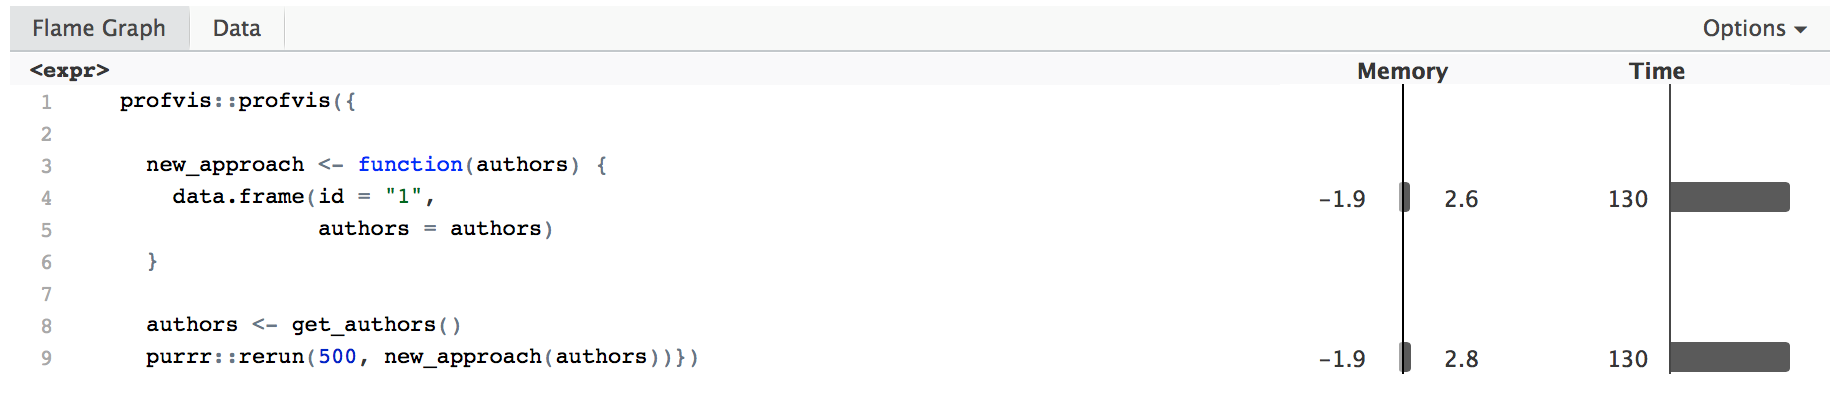
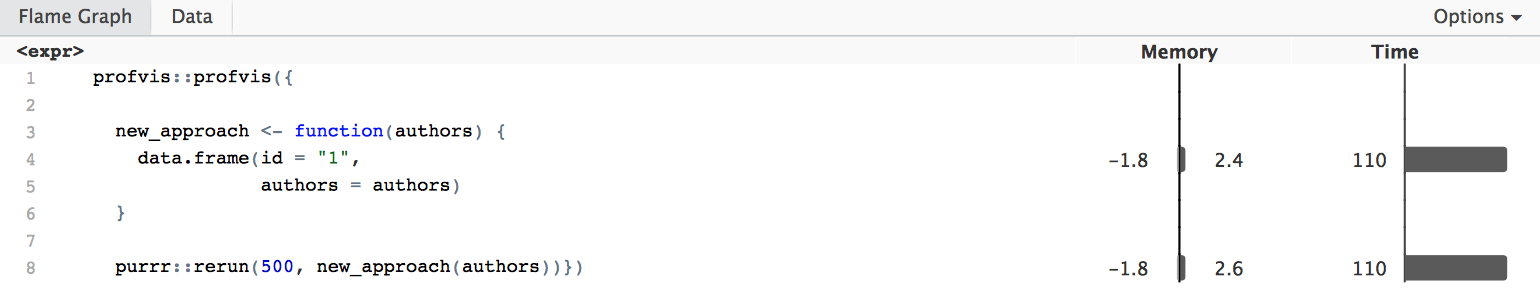
simplify code slightly

diff --git a/draft.md b/draft.md
@@ -306,59 +306,57 @@ microbenchmark::microbenchmark(
 
 ```
 ## Unit: microseconds
-##        expr     min      lq     mean   median       uq      max neval
-##      tibble 323.094 333.583 387.6665 338.8075 370.9175 1287.835   100
-##  new_tibble  74.496  81.295 110.7023  86.2195  89.9845 1519.435   100
+##        expr     min       lq      mean  median      uq      max neval
+##      tibble 322.624 329.4365 356.78152 332.833 346.659 1093.364   100
+##  new_tibble  74.164  79.0430  94.56018  83.241  87.274  845.342   100
 ```
 
-The difference is not huge (~50sec for 500000 documents), but my actual layout
+The difference is not huge (~50sec for 500,000 documents), but my actual layout
 was a lot more complex, since it was using nested structures in a weird way:
 
 
 ```r
 # dummy function for getting the data
-get_authors <- function() {
-  tibble::tribble(
-    ~first_name, ~last_name, ~author_number,
-    "Pierre",    "Bourdieu", 1,
-    "Max",       "Weber",    2,
-    "Karl",      "Marx",     3
-  )
-}
+authors <- tibble::tribble(
+  ~first_name, ~last_name, ~author_number,
+  "Pierre",    "Bourdieu", 1,
+  "Max",       "Weber",    2,
+  "Karl",      "Marx",     3
+)
 
 # this approach made sense to me, since the data structure was indeed nested,
 # and it seemed similar to the approach of mutate + map + unnest.
-old_approach <- function() {
+old_approach <- function(authors) {
   res <- tibble::data_frame(id = "1",
-                            authors = list(get_authors()))
+                            authors = list(authors))
   
   tidyr::unnest(res, authors)
 }
 
 # this is obviously a lot simpler
-new_approach <- function() {
+new_approach <- function(authors) {
   data.frame(id = "1",
-             authors = get_authors())
+             authors = authors)
 }
 
 
 microbenchmark::microbenchmark(
-  old = old_approach(),
-  new = new_approach()
+  old = old_approach(authors),
+  new = new_approach(authors)
 )
 ```
 
 ```
-## Unit: milliseconds
-##  expr      min        lq     mean   median       uq      max neval
-##   old 5.566752 25.663635 47.80820 34.15654 51.17691 345.4876   100
-##   new 1.839041  7.727445 14.64343 10.44802 15.97281 150.5579   100
+## Unit: microseconds
+##  expr      min        lq      mean   median       uq       max neval
+##   old 3956.140 4106.7390 4708.4932 4255.307 4731.791  9476.675   100
+##   new  250.872  267.5145  505.5482  317.850  328.885 18255.590   100
 ```
 
 The difference is significant, amounting to around 40 minutes more for
 500,000 documents, if I would have kept the old version.
 
-Unfortunately, using profvis for
+Unfortunately, using `profvis` for
 such small and fast functions does not work well out of the box:
 
 
@@ -398,7 +396,6 @@ profvis::profvis({
     tidyr::unnest(res, authors)
   }
 
-  authors <- get_authors()
   purrr::rerun(500, old_approach(authors))
 })
 ```
@@ -419,7 +416,6 @@ profvis::profvis({
                authors = authors)
   }
   
-  authors <- get_authors()
   purrr::rerun(500, new_approach(authors))})
 ```
 
